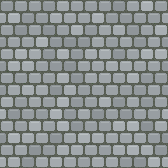
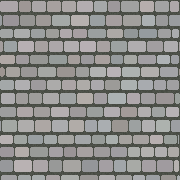
Add a thin flat kerb and vary the cobbles.
The border marks the road without a step, and the stones differ slightly in size and tone.

diff --git a/game.js b/game.js
@@ -11,7 +11,7 @@ const ROAD_RIGHT = ROAD_LEFT + ROAD_WIDTH;
 const LANE_WIDTH = ROAD_WIDTH / 3;
 const PLAYER_Y = 540;
 
-const PAVEMENT_WIDTH = 13.5;
+const PAVEMENT_WIDTH = 6;
 const BUILDING_WIDTH = ROAD_LEFT - PAVEMENT_WIDTH; // 91.5px on the 360px canvas
 const STREET_SEGMENT_H = 360;
 const BUILDING_H = 236;
@@ -103,7 +103,7 @@ const imgPath = new Image();
 let pathLoaded = false;
 imgPath.onload = () => { pathLoaded = true; };
 imgPath.onerror = () => { loadErrorLog.push('path.png not found'); };
-imgPath.src = 'path.png?v=3';
+imgPath.src = 'path.png?v=4';
 
 /*
   Each building has an intentional detail zone underneath it. The gap is
@@ -239,8 +239,8 @@ function drawHighStreet() {
   ctx.fillRect(0, 0, W, H);
 
   // Cobbles sit behind the shops, so the space around each chimney is pavement.
-  const leftW = ROAD_LEFT;
-  const rightX = ROAD_RIGHT;
+  const leftW = ROAD_LEFT - PAVEMENT_WIDTH;
+  const rightX = ROAD_RIGHT + PAVEMENT_WIDTH;
   drawCobbles(0, 0, leftW, H);
   drawCobbles(rightX, 0, W - rightX, H);
 
@@ -279,10 +279,23 @@ function drawHighStreet() {
 }
 
 function drawPavements() {
-  // A hairline only. A stone band here reads as a wall and lifts the road above the shops.
-  ctx.fillStyle = 'rgba(28,30,34,0.55)';
-  ctx.fillRect(ROAD_LEFT - 1, 0, 1, H);
-  ctx.fillRect(ROAD_RIGHT, 0, 1, H);
+  const pWidth = PAVEMENT_WIDTH;
+  const slab = 22;
+  const offY = scrollY % slab;
+  for (let side = 0; side < 2; side++) {
+    const x = side === 0 ? ROAD_LEFT - pWidth : ROAD_RIGHT;
+    // Flat border only. No pale lip, no dark gutter, so it does not lift the road.
+    ctx.fillStyle = '#9a9e98';
+    ctx.fillRect(x, 0, pWidth, H);
+    ctx.strokeStyle = 'rgba(70,74,68,0.4)';
+    ctx.lineWidth = 1;
+    for (let y = -slab + offY; y < H + slab; y += slab) {
+      ctx.beginPath();
+      ctx.moveTo(x, y);
+      ctx.lineTo(x + pWidth, y);
+      ctx.stroke();
+    }
+  }
 }
 
 function mk(fn) {

diff --git a/index-new.html b/index-new.html
@@ -73,6 +73,6 @@
   </div>
 
 <script src="game-data.js?v=5"></script>
-<script src="game.js?v=4"></script>
+<script src="game.js?v=5"></script>
 </body>
 </html>

diff --git a/index-new.html.html b/index-new.html.html
@@ -73,6 +73,6 @@
   </div>
 
 <script src="game-data.js?v=5"></script>
-<script src="game.js?v=4"></script>
+<script src="game.js?v=5"></script>
 </body>
 </html>

diff --git a/index.html b/index.html
@@ -73,6 +73,6 @@
   </div>
 
 <script src="game-data.js?v=5"></script>
-<script src="game.js?v=4"></script>
+<script src="game.js?v=5"></script>
 </body>
 </html>
